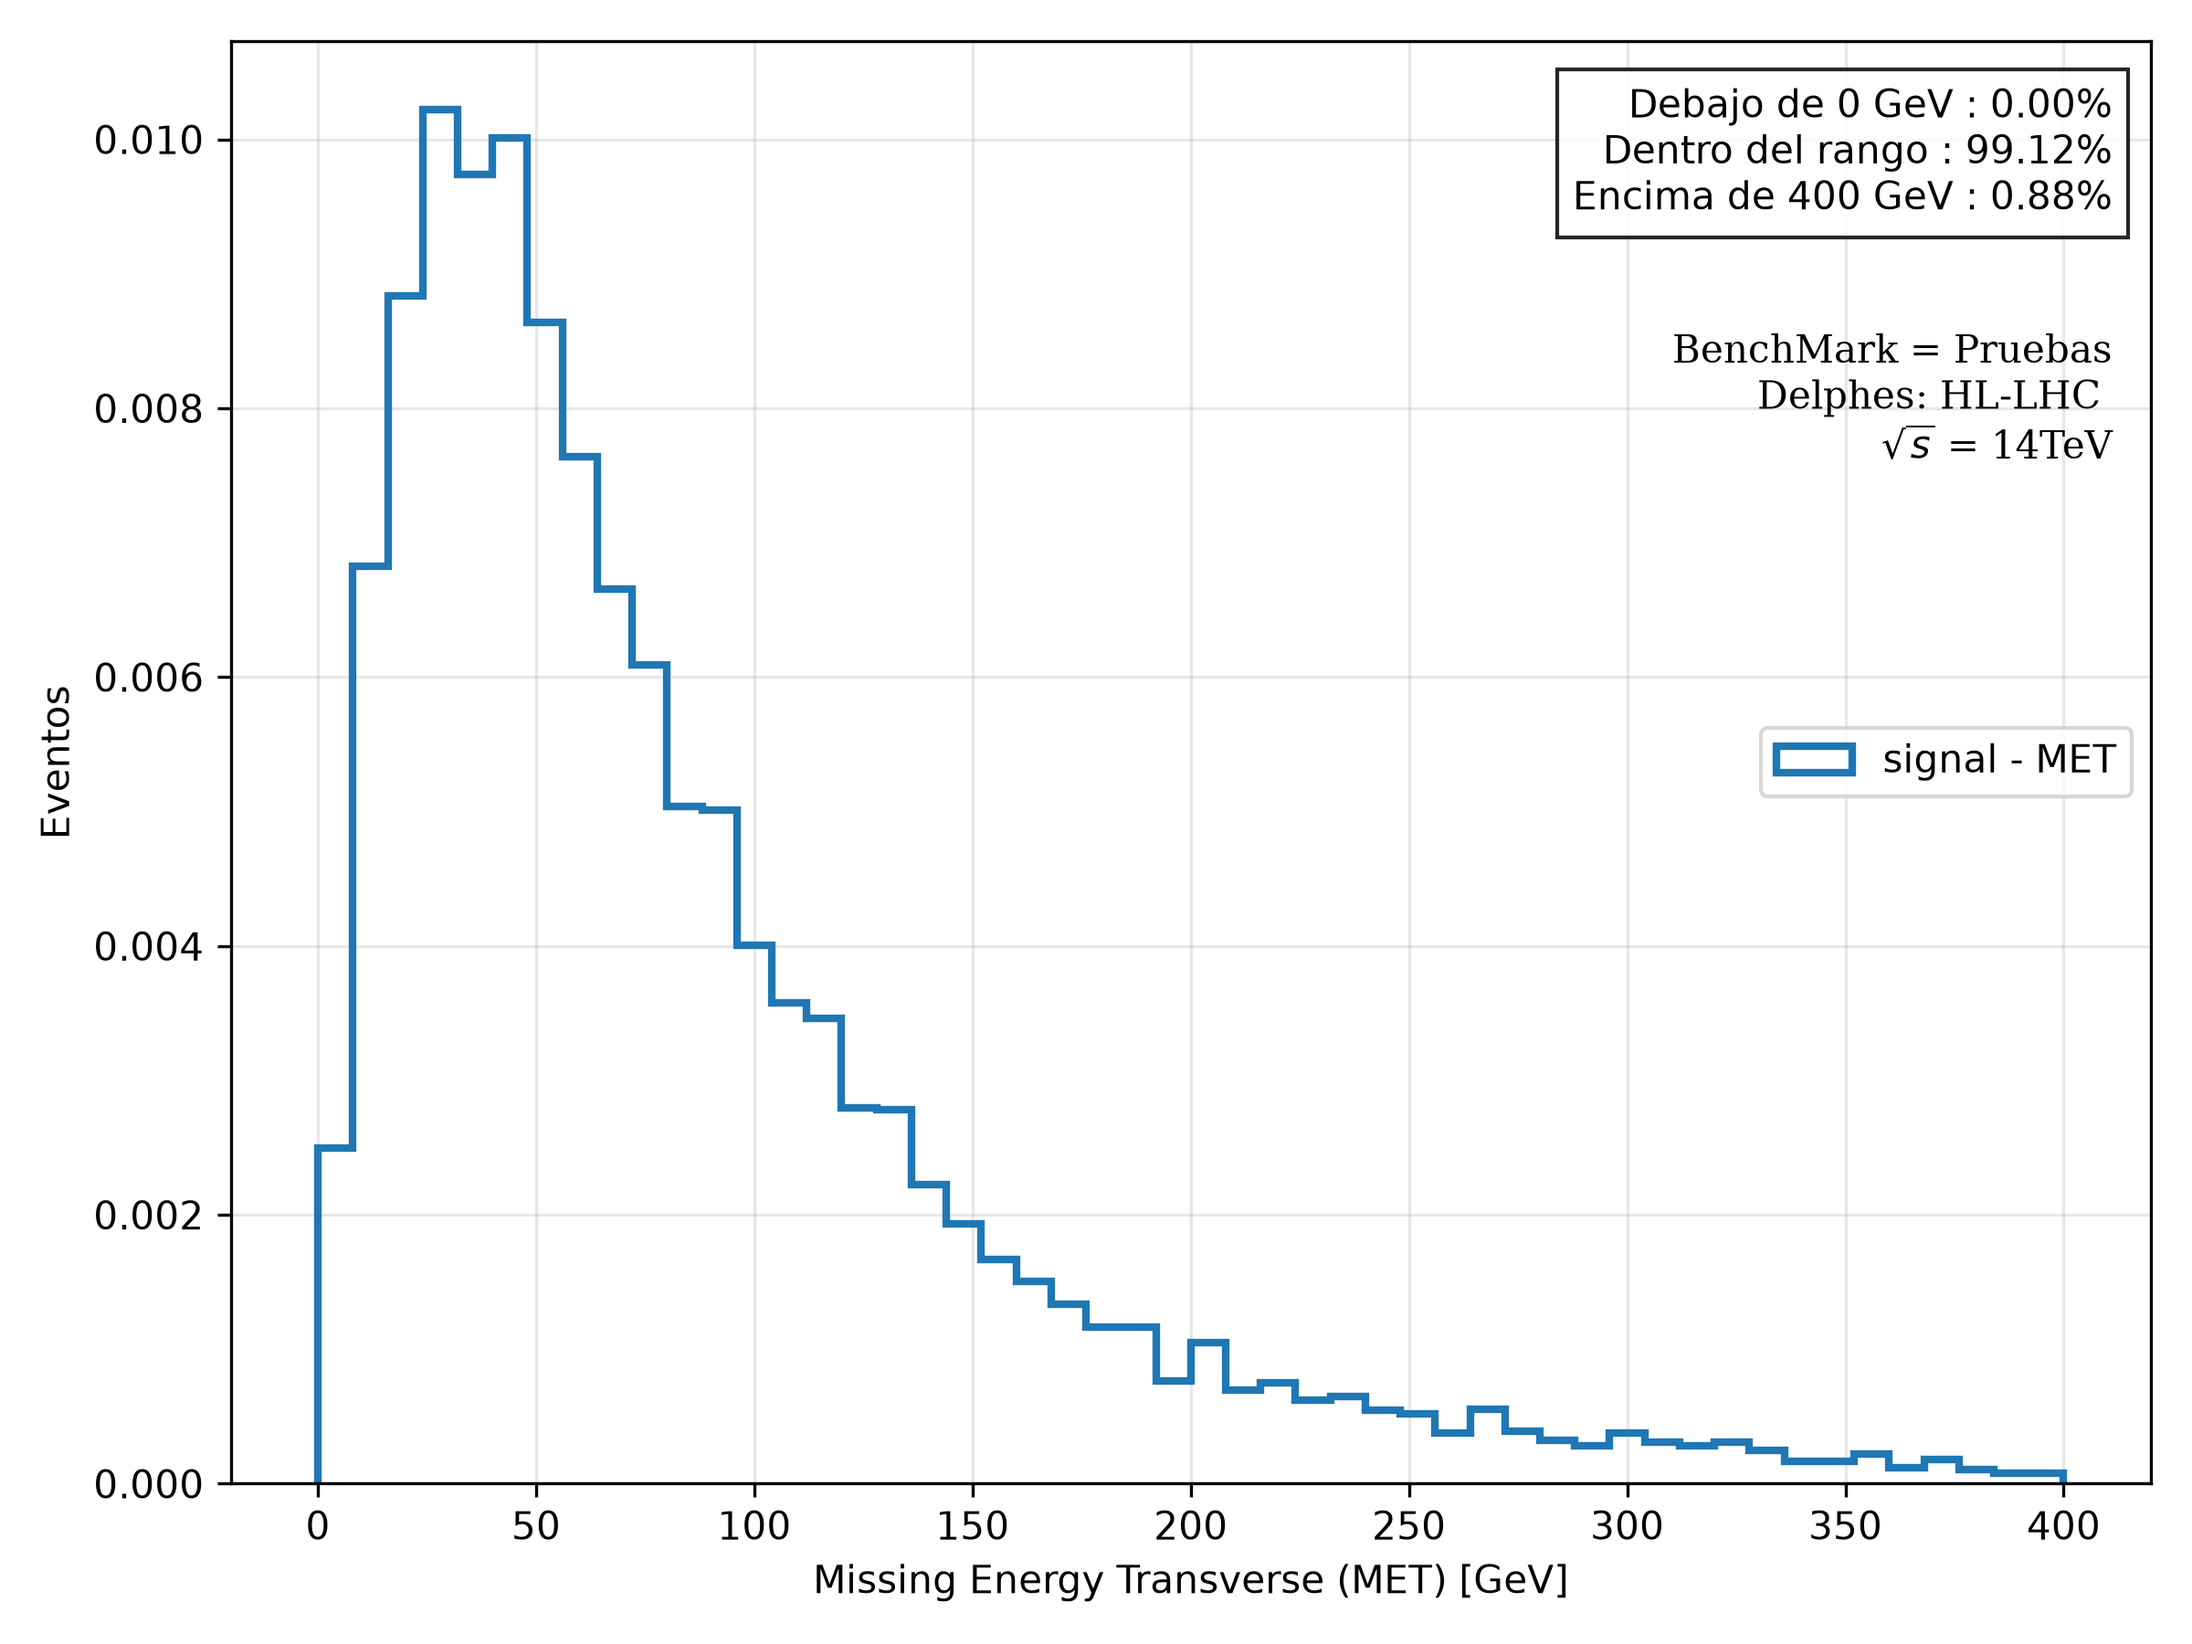
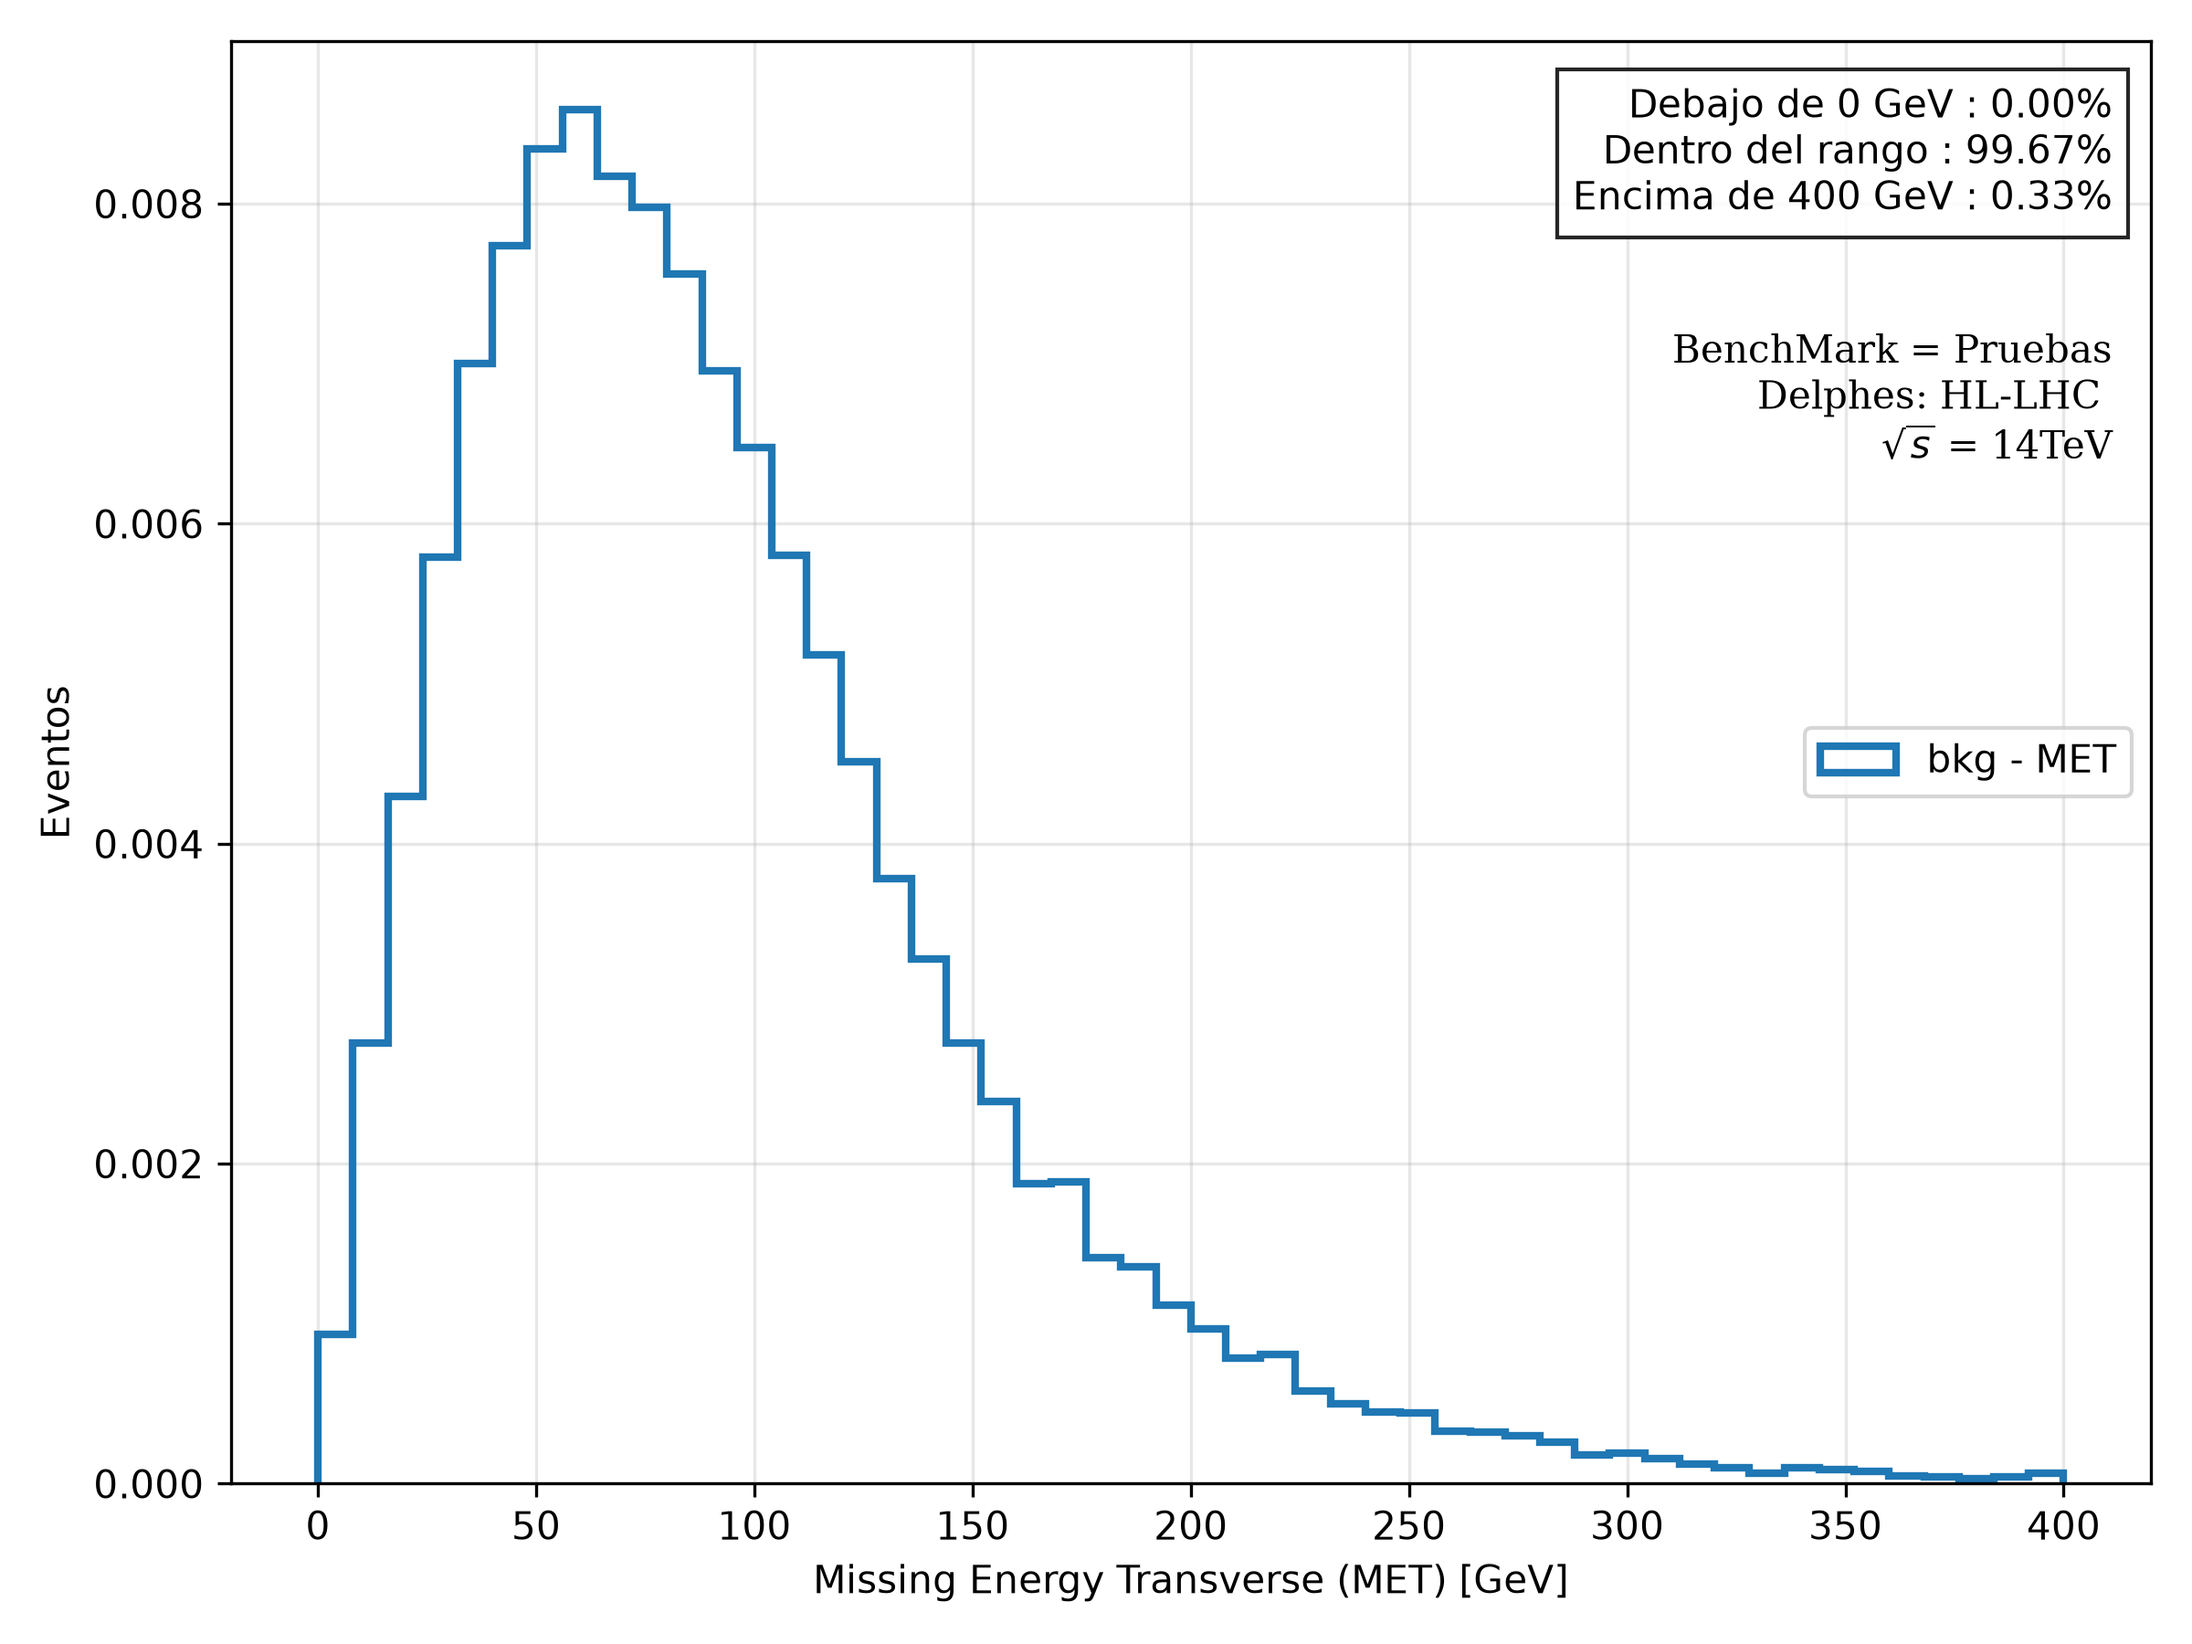
comprobacion branch de carga

diff --git a/RecAnalysis/scripts/Functions.py b/RecAnalysis/scripts/Functions.py
@@ -84,6 +84,17 @@ def preselection_cut(vec, Pt_lowerBond, Eta_absoluteBond):
     return cinematic_mask
 
 
+_avisadas = set()
+
+def campo_o_ceros(data, nombre, ref="Track.PT"):
+    if nombre in data.fields:
+        return data[nombre]
+    if nombre not in _avisadas:
+        print(f"AVISO: la branch '{nombre}' no existe en el archivo; se rellena con ceros.")
+        _avisadas.add(nombre)
+    return ak.zeros_like(data[ref])
+
+
 def vectors_buildup(data):
 
     jets = ak.zip({
@@ -98,8 +109,7 @@ def vectors_buildup(data):
     tracks = ak.zip({"pt": data["Track.PT"], "eta": data["Track.Eta"],
                     "phi": data["Track.Phi"],
                     "mass": ak.zeros_like(data["Track.PT"]),
-                    "charge": data["Track.Charge"] if "Track.Charge" in data.fields
-                    else ak.zeros_like(data["Track.PT"]),
+                    "charge": campo_o_ceros(data, "Track.Charge"),
                     "d0":  data["Track.D0"],
                     "dz":  data["Track.DZ"]},
                     with_name="Momentum4D")
